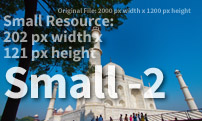
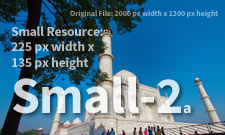
adjusting for new 225px resource

diff --git a/test-pages/chrome-2test.html b/test-pages/chrome-2test.html
@@ -73,7 +73,7 @@
                 <h2>Small Presentation</h2>
 
                 <div class="col-lg-3 col-md-4 col-sm-5 col-xs-6 no-pad-left">
-                    <img src="../images/2-SmallResource-202x121.jpg" srcset="../images/2-MediumResource-420x252.jpg 420w, ../images/2-SmallResource-202x121.jpg 202w" sizes="(min-width: 768px) 202px, (min-width: 463px) and (max-width: 767px) 420px, 202px">
+                    <img src="../images/2-SmallResource-202x121.jpg" srcset="../images/2-MediumResource-420x252.jpg 420w, ../images/2-SmallResource-202x121.jpg 225w" sizes="(min-width: 768px) 225px, (min-width: 463px) and (max-width: 767px) 420px, 225px">
                 </div>
 
                 <p>Lorem ipsum dolor sit amet, cum iriure invidunt et, quo at autem dicam instructior. Id has etiam mnesarchum. Omnes tractatos inciderint nam ad. Homero dicunt pro ne, ut labore volumus definiebas sit. Ex quo nulla sententiae comprehensam. Alii molestie reprimique sit in, natum mediocritatem ad mea. Lorem ipsum dolor sit amet, cum iriure invidunt et, quo at autem dicam instructior. Id has etiam mnesarchum. Omnes tractatos inciderint nam ad. Homero dicunt pro ne, ut labore volumus definiebas sit. Ex quo nulla sententiae comprehensam. Alii molestie reprimique sit in, natum mediocritatem ad mea.</p>
@@ -83,7 +83,7 @@
                 <h2>Medium Presentation</h2>
 
                 <div class="col-lg-6 col-md-7 col-xs-8 no-pad-left">
-                    <img src="../images/2-MediumResource-420x252.jpg" srcset="../images/2-LargeResource-638x383.jpg 638w, ../images/2-MediumResource-420x252.jpg 420w, ../images/2-SmallResource-202x121.jpg 202w" sizes="(min-width: 768px) 420px, (min-width: 683px) and (max-width: 767px) 683px, (min-width: 373px) 420px, 202px">
+                    <img src="../images/2-MediumResource-420x252.jpg" srcset="../images/2-LargeResource-638x383.jpg 638w, ../images/2-MediumResource-420x252.jpg 420w, ../images/2-SmallResource-202x121.jpg 225w" sizes="(min-width: 768px) 420px, (min-width: 683px) and (max-width: 767px) 683px, (min-width: 373px) 420px, 225px">
                 </div>
 
                 <p>Lorem ipsum dolor sit amet, cum iriure invidunt et, quo at autem dicam instructior. Id has etiam mnesarchum. Omnes tractatos inciderint nam ad. Homero dicunt pro ne, ut labore volumus definiebas sit. Ex quo nulla sententiae comprehensam. Alii molestie reprimique sit in, natum mediocritatem ad mea. Lorem ipsum dolor sit amet, cum iriure invidunt et, quo at autem dicam instructior. Id has etiam mnesarchum. Omnes tractatos inciderint nam ad. Homero dicunt pro ne, ut labore volumus definiebas sit. Ex quo nulla sententiae comprehensam. Alii molestie reprimique sit in, natum mediocritatem ad mea.</p>
@@ -93,7 +93,7 @@
                 <h2>Large Presentation</h2>
 
                 <div class="col-lg-9 col-md-9 col-xs-12 no-pad-left">
-                    <img src="../images/2-LargeResource-638x383.jpg" srcset="../images/2-FullWidthResource-870x522.jpg 870w, ../images/2-LargeResource-638x383.jpg 638w, ../images/2-MediumResource-420x252.jpg 420w, ../images/2-SmallResource-202x121.jpg 202w" sizes="(min-width: 768px) 638px, (min-width: 683px) and (max-width: 767px) 870px, (min-width: 483px) and (max-width: 682px) 638px, 420px">
+                    <img src="../images/2-LargeResource-638x383.jpg" srcset="../images/2-FullWidthResource-870x522.jpg 870w, ../images/2-LargeResource-638x383.jpg 638w, ../images/2-MediumResource-420x252.jpg 420w, ../images/2-SmallResource-202x121.jpg 225w" sizes="(min-width: 768px) 638px, (min-width: 683px) and (max-width: 767px) 870px, (min-width: 483px) and (max-width: 682px) 638px, 420px">
                 </div>
 
                 <p>Lorem ipsum dolor sit amet, cum iriure invidunt et, quo at autem dicam instructior. Id has etiam mnesarchum. Omnes tractatos inciderint nam ad. Homero dicunt pro ne, ut labore volumus definiebas sit. Ex quo nulla sententiae comprehensam. Alii molestie reprimique sit in, natum mediocritatem ad mea. Lorem ipsum dolor sit amet, cum iriure invidunt et, quo at autem dicam instructior. Id has etiam mnesarchum. Omnes tractatos inciderint nam ad. Homero dicunt pro ne, ut labore volumus definiebas sit. Ex quo nulla sententiae comprehensam. Alii molestie reprimique sit in, natum mediocritatem ad mea.</p>
@@ -103,7 +103,7 @@
                 <h2>Full-width Presentation</h2>
 
                 <div class="col-xs-12 no-pad-left no-pad-right">
-                    <img src="../images/2-FullWidthResource-870x522.jpg" srcset="../images/2-FullWidthResource-870x522.jpg 870w, ../images/2-LargeResource-638x383.jpg 638w, ../images/2-MediumResource-420x252.jpg 420w, ../images/2-SmallResource-202x121.jpg 202w" sizes="(min-width: 992px) 870px, (min-width: 768px) and (max-width: 991px) 638px, (min-width: 686px) and (max-width: 767px) 870px, (min-width: 468px) 638px, 420px">
+                    <img src="../images/2-FullWidthResource-870x522.jpg" srcset="../images/2-FullWidthResource-870x522.jpg 870w, ../images/2-LargeResource-638x383.jpg 638w, ../images/2-MediumResource-420x252.jpg 420w, ../images/2-SmallResource-202x121.jpg 225w" sizes="(min-width: 992px) 870px, (min-width: 768px) and (max-width: 991px) 638px, (min-width: 686px) and (max-width: 767px) 870px, (min-width: 468px) 638px, 420px">
                 </div>
 
                 <p>Lorem ipsum dolor sit amet, cum iriure invidunt et, quo at autem dicam instructior. Id has etiam mnesarchum. Omnes tractatos inciderint nam ad. Homero dicunt pro ne, ut labore volumus definiebas sit. Ex quo nulla sententiae comprehensam. Alii molestie reprimique sit in, natum mediocritatem ad mea. Lorem ipsum dolor sit amet, cum iriure invidunt et, quo at autem dicam instructior. Id has etiam mnesarchum. Omnes tractatos inciderint nam ad. Homero dicunt pro ne, ut labore volumus definiebas sit. Ex quo nulla sententiae comprehensam. Alii molestie reprimique sit in, natum mediocritatem ad mea.</p>

diff --git a/test-pages/firefox-2test.html b/test-pages/firefox-2test.html
@@ -74,7 +74,7 @@
                 <h2>Small Presentation</h2>
 
                 <div class="col-lg-3 col-md-4 col-sm-5 col-xs-6 no-pad-left">
-                    <img src="../images/2-SmallResource-202x121.jpg" srcset="../images/2-MediumResource-420x252.jpg 420w, ../images/2-SmallResource-202x121.jpg 202w" sizes="(min-width: 768px) 202px, (min-width: 463px) and (max-width: 767px) 420px, 202px">
+                    <img src="../images/2-SmallResource-202x121.jpg" srcset="../images/2-MediumResource-420x252.jpg 420w, ../images/2-SmallResource-202x121.jpg 225w" sizes="(min-width: 768px) 225px, (min-width: 463px) and (max-width: 767px) 420px, 225px">
                 </div>
 
                 <p>Lorem ipsum dolor sit amet, cum iriure invidunt et, quo at autem dicam instructior. Id has etiam mnesarchum. Omnes tractatos inciderint nam ad. Homero dicunt pro ne, ut labore volumus definiebas sit. Ex quo nulla sententiae comprehensam. Alii molestie reprimique sit in, natum mediocritatem ad mea. Lorem ipsum dolor sit amet, cum iriure invidunt et, quo at autem dicam instructior. Id has etiam mnesarchum. Omnes tractatos inciderint nam ad. Homero dicunt pro ne, ut labore volumus definiebas sit. Ex quo nulla sententiae comprehensam. Alii molestie reprimique sit in, natum mediocritatem ad mea.</p>
@@ -84,7 +84,7 @@
                 <h2>Medium Presentation</h2>
 
                 <div class="col-lg-6 col-md-7 col-xs-8 no-pad-left">
-                    <img src="../images/2-MediumResource-420x252.jpg" srcset="../images/2-LargeResource-638x383.jpg 638w, ../images/2-MediumResource-420x252.jpg 420w, ../images/2-SmallResource-202x121.jpg 202w" sizes="(min-width: 768px) 420px, (min-width: 683px) and (max-width: 767px) 683px, (min-width: 373px) 420px, 202px">
+                    <img src="../images/2-MediumResource-420x252.jpg" srcset="../images/2-LargeResource-638x383.jpg 638w, ../images/2-MediumResource-420x252.jpg 420w, ../images/2-SmallResource-202x121.jpg 225w" sizes="(min-width: 768px) 420px, (min-width: 683px) and (max-width: 767px) 683px, (min-width: 373px) 420px, 225px">
                 </div>
 
                 <p>Lorem ipsum dolor sit amet, cum iriure invidunt et, quo at autem dicam instructior. Id has etiam mnesarchum. Omnes tractatos inciderint nam ad. Homero dicunt pro ne, ut labore volumus definiebas sit. Ex quo nulla sententiae comprehensam. Alii molestie reprimique sit in, natum mediocritatem ad mea. Lorem ipsum dolor sit amet, cum iriure invidunt et, quo at autem dicam instructior. Id has etiam mnesarchum. Omnes tractatos inciderint nam ad. Homero dicunt pro ne, ut labore volumus definiebas sit. Ex quo nulla sententiae comprehensam. Alii molestie reprimique sit in, natum mediocritatem ad mea.</p>
@@ -94,7 +94,7 @@
                 <h2>Large Presentation</h2>
 
                 <div class="col-lg-9 col-md-9 col-xs-12 no-pad-left">
-                    <img src="../images/2-LargeResource-638x383.jpg" srcset="../images/2-FullWidthResource-870x522.jpg 870w, ../images/2-LargeResource-638x383.jpg 638w, ../images/2-MediumResource-420x252.jpg 420w, ../images/2-SmallResource-202x121.jpg 202w" sizes="(min-width: 768px) 638px, (min-width: 683px) and (max-width: 767px) 870px, (min-width: 483px) and (max-width: 682px) 638px, 420px">
+                    <img src="../images/2-LargeResource-638x383.jpg" srcset="../images/2-FullWidthResource-870x522.jpg 870w, ../images/2-LargeResource-638x383.jpg 638w, ../images/2-MediumResource-420x252.jpg 420w, ../images/2-SmallResource-202x121.jpg 225w" sizes="(min-width: 768px) 638px, (min-width: 683px) and (max-width: 767px) 870px, (min-width: 483px) and (max-width: 682px) 638px, 420px">
                 </div>
 
                 <p>Lorem ipsum dolor sit amet, cum iriure invidunt et, quo at autem dicam instructior. Id has etiam mnesarchum. Omnes tractatos inciderint nam ad. Homero dicunt pro ne, ut labore volumus definiebas sit. Ex quo nulla sententiae comprehensam. Alii molestie reprimique sit in, natum mediocritatem ad mea. Lorem ipsum dolor sit amet, cum iriure invidunt et, quo at autem dicam instructior. Id has etiam mnesarchum. Omnes tractatos inciderint nam ad. Homero dicunt pro ne, ut labore volumus definiebas sit. Ex quo nulla sententiae comprehensam. Alii molestie reprimique sit in, natum mediocritatem ad mea.</p>
@@ -104,7 +104,7 @@
                 <h2>Full-width Presentation</h2>
 
                 <div class="col-xs-12 no-pad-left no-pad-right">
-                    <img src="../images/2-FullWidthResource-870x522.jpg" srcset="../images/2-FullWidthResource-870x522.jpg 870w, ../images/2-LargeResource-638x383.jpg 638w, ../images/2-MediumResource-420x252.jpg 420w, ../images/2-SmallResource-202x121.jpg 202w" sizes="(min-width: 992px) 870px, (min-width: 768px) and (max-width: 991px) 638px, (min-width: 686px) and (max-width: 767px) 870px, (min-width: 468px) 638px, 420px">
+                    <img src="../images/2-FullWidthResource-870x522.jpg" srcset="../images/2-FullWidthResource-870x522.jpg 870w, ../images/2-LargeResource-638x383.jpg 638w, ../images/2-MediumResource-420x252.jpg 420w, ../images/2-SmallResource-202x121.jpg 225w" sizes="(min-width: 992px) 870px, (min-width: 768px) and (max-width: 991px) 638px, (min-width: 686px) and (max-width: 767px) 870px, (min-width: 468px) 638px, 420px">
                 </div>
 
                 <p>Lorem ipsum dolor sit amet, cum iriure invidunt et, quo at autem dicam instructior. Id has etiam mnesarchum. Omnes tractatos inciderint nam ad. Homero dicunt pro ne, ut labore volumus definiebas sit. Ex quo nulla sententiae comprehensam. Alii molestie reprimique sit in, natum mediocritatem ad mea. Lorem ipsum dolor sit amet, cum iriure invidunt et, quo at autem dicam instructior. Id has etiam mnesarchum. Omnes tractatos inciderint nam ad. Homero dicunt pro ne, ut labore volumus definiebas sit. Ex quo nulla sententiae comprehensam. Alii molestie reprimique sit in, natum mediocritatem ad mea.</p>

diff --git a/test-pages/firefox-test.html b/test-pages/firefox-test.html
@@ -72,7 +72,7 @@
         <h2>Small Presentation</h2>
 
                 <div class="col-lg-3 col-md-4 col-sm-5 col-xs-6 no-pad-left">
-                    <img src="../images/2-SmallResource-202x121.jpg" srcset="../images/2-MediumResource-420x252.jpg 420w, ../images/2-SmallResource-202x121.jpg 202w" sizes="(min-width: 768px) 202px, (min-width: 463px) and (max-width: 767px) 420px, 202px">
+                    <img src="../images/2-SmallResource-202x121.jpg" srcset="../images/2-MediumResource-420x252.jpg 420w, ../images/2-SmallResource-202x121.jpg 225w" sizes="(min-width: 768px) 225px, (min-width: 463px) and (max-width: 767px) 420px, 225px">
                 </div>
 
                 <p>Lorem ipsum dolor sit amet, cum iriure invidunt et, quo at autem dicam instructior. Id has etiam mnesarchum. Omnes tractatos inciderint nam ad. Homero dicunt pro ne, ut labore volumus definiebas sit. Ex quo nulla sententiae comprehensam. Alii molestie reprimique sit in, natum mediocritatem ad mea. Lorem ipsum dolor sit amet, cum iriure invidunt et, quo at autem dicam instructior. Id has etiam mnesarchum. Omnes tractatos inciderint nam ad. Homero dicunt pro ne, ut labore volumus definiebas sit. Ex quo nulla sententiae comprehensam. Alii molestie reprimique sit in, natum mediocritatem ad mea.</p>
@@ -82,7 +82,7 @@
                 <h2>Medium Presentation</h2>
 
                 <div class="col-lg-6 col-md-7 col-xs-8 no-pad-left">
-                    <img src="../images/2-MediumResource-420x252.jpg" srcset="../images/2-LargeResource-638x383.jpg 638w, ../images/2-MediumResource-420x252.jpg 420w, ../images/2-SmallResource-202x121.jpg 202w" sizes="(min-width: 768px) 420px, (min-width: 683px) and (max-width: 767px) 683px, (min-width: 373px) 420px, 202px">
+                    <img src="../images/2-MediumResource-420x252.jpg" srcset="../images/2-LargeResource-638x383.jpg 638w, ../images/2-MediumResource-420x252.jpg 420w, ../images/2-SmallResource-202x121.jpg 225w" sizes="(min-width: 768px) 420px, (min-width: 683px) and (max-width: 767px) 683px, (min-width: 373px) 420px, 225px">
                 </div>
 
                 <p>Lorem ipsum dolor sit amet, cum iriure invidunt et, quo at autem dicam instructior. Id has etiam mnesarchum. Omnes tractatos inciderint nam ad. Homero dicunt pro ne, ut labore volumus definiebas sit. Ex quo nulla sententiae comprehensam. Alii molestie reprimique sit in, natum mediocritatem ad mea. Lorem ipsum dolor sit amet, cum iriure invidunt et, quo at autem dicam instructior. Id has etiam mnesarchum. Omnes tractatos inciderint nam ad. Homero dicunt pro ne, ut labore volumus definiebas sit. Ex quo nulla sententiae comprehensam. Alii molestie reprimique sit in, natum mediocritatem ad mea.</p>
@@ -92,7 +92,7 @@
                 <h2>Large Presentation</h2>
 
                 <div class="col-lg-9 col-md-9 col-xs-12 no-pad-left">
-                    <img src="../images/2-LargeResource-638x383.jpg" srcset="../images/2-FullWidthResource-870x522.jpg 870w, ../images/2-LargeResource-638x383.jpg 638w, ../images/2-MediumResource-420x252.jpg 420w, ../images/2-SmallResource-202x121.jpg 202w" sizes="(min-width: 768px) 638px, (min-width: 683px) and (max-width: 767px) 870px, (min-width: 483px) and (max-width: 682px) 638px, 420px">
+                    <img src="../images/2-LargeResource-638x383.jpg" srcset="../images/2-FullWidthResource-870x522.jpg 870w, ../images/2-LargeResource-638x383.jpg 638w, ../images/2-MediumResource-420x252.jpg 420w, ../images/2-SmallResource-202x121.jpg 225w" sizes="(min-width: 768px) 638px, (min-width: 683px) and (max-width: 767px) 870px, (min-width: 483px) and (max-width: 682px) 638px, 420px">
                 </div>
 
                 <p>Lorem ipsum dolor sit amet, cum iriure invidunt et, quo at autem dicam instructior. Id has etiam mnesarchum. Omnes tractatos inciderint nam ad. Homero dicunt pro ne, ut labore volumus definiebas sit. Ex quo nulla sententiae comprehensam. Alii molestie reprimique sit in, natum mediocritatem ad mea. Lorem ipsum dolor sit amet, cum iriure invidunt et, quo at autem dicam instructior. Id has etiam mnesarchum. Omnes tractatos inciderint nam ad. Homero dicunt pro ne, ut labore volumus definiebas sit. Ex quo nulla sententiae comprehensam. Alii molestie reprimique sit in, natum mediocritatem ad mea.</p>
@@ -102,7 +102,7 @@
                 <h2>Full-width Presentation</h2>
 
                 <div class="col-xs-12 no-pad-left no-pad-right">
-                    <img src="../images/2-FullWidthResource-870x522.jpg" srcset="../images/2-FullWidthResource-870x522.jpg 870w, ../images/2-LargeResource-638x383.jpg 638w, ../images/2-MediumResource-420x252.jpg 420w, ../images/2-SmallResource-202x121.jpg 202w" sizes="(min-width: 992px) 870px, (min-width: 768px) and (max-width: 991px) 638px, (min-width: 686px) and (max-width: 767px) 870px, (min-width: 468px) 638px, 420px">
+                    <img src="../images/2-FullWidthResource-870x522.jpg" srcset="../images/2-FullWidthResource-870x522.jpg 870w, ../images/2-LargeResource-638x383.jpg 638w, ../images/2-MediumResource-420x252.jpg 420w, ../images/2-SmallResource-202x121.jpg 225w" sizes="(min-width: 992px) 870px, (min-width: 768px) and (max-width: 991px) 638px, (min-width: 686px) and (max-width: 767px) 870px, (min-width: 468px) 638px, 420px">
                 </div>
 
                 <p>Lorem ipsum dolor sit amet, cum iriure invidunt et, quo at autem dicam instructior. Id has etiam mnesarchum. Omnes tractatos inciderint nam ad. Homero dicunt pro ne, ut labore volumus definiebas sit. Ex quo nulla sententiae comprehensam. Alii molestie reprimique sit in, natum mediocritatem ad mea. Lorem ipsum dolor sit amet, cum iriure invidunt et, quo at autem dicam instructior. Id has etiam mnesarchum. Omnes tractatos inciderint nam ad. Homero dicunt pro ne, ut labore volumus definiebas sit. Ex quo nulla sententiae comprehensam. Alii molestie reprimique sit in, natum mediocritatem ad mea.</p>

diff --git a/test-pages/chrome-test.html b/test-pages/chrome-test.html
@@ -72,7 +72,7 @@
         <h2>Small Presentation</h2>
 
         <div class="col-lg-3 col-md-4 col-sm-5 col-xs-6 no-pad-left">
-            <img src="../images/2-SmallResource-202x121.jpg" srcset="../images/2-MediumResource-420x252.jpg 420w, ../images/2-SmallResource-202x121.jpg 202w" sizes="(min-width: 768px) 202px, (min-width: 463px) and (max-width: 767px) 420px, 202px">
+            <img src="../images/2-SmallResource-202x121.jpg" srcset="../images/2-MediumResource-420x252.jpg 420w, ../images/2-SmallResource-202x121.jpg 225w" sizes="(min-width: 768px) 225px, (min-width: 463px) and (max-width: 767px) 420px, 225px">
         </div>
 
         <p>Lorem ipsum dolor sit amet, cum iriure invidunt et, quo at autem dicam instructior. Id has etiam mnesarchum. Omnes tractatos inciderint nam ad. Homero dicunt pro ne, ut labore volumus definiebas sit. Ex quo nulla sententiae comprehensam. Alii molestie reprimique sit in, natum mediocritatem ad mea. Lorem ipsum dolor sit amet, cum iriure invidunt et, quo at autem dicam instructior. Id has etiam mnesarchum. Omnes tractatos inciderint nam ad. Homero dicunt pro ne, ut labore volumus definiebas sit. Ex quo nulla sententiae comprehensam. Alii molestie reprimique sit in, natum mediocritatem ad mea.</p>
@@ -82,7 +82,7 @@
         <h2>Medium Presentation</h2>
 
         <div class="col-lg-6 col-md-7 col-xs-8 no-pad-left">
-            <img src="../images/2-MediumResource-420x252.jpg" srcset="../images/2-LargeResource-638x383.jpg 638w, ../images/2-MediumResource-420x252.jpg 420w, ../images/2-SmallResource-202x121.jpg 202w" sizes="(min-width: 768px) 420px, (min-width: 683px) and (max-width: 767px) 683px, (min-width: 373px) 420px, 202px">
+            <img src="../images/2-MediumResource-420x252.jpg" srcset="../images/2-LargeResource-638x383.jpg 638w, ../images/2-MediumResource-420x252.jpg 420w, ../images/2-SmallResource-202x121.jpg 225w" sizes="(min-width: 768px) 420px, (min-width: 683px) and (max-width: 767px) 683px, (min-width: 373px) 420px, 225px">
         </div>
 
         <p>Lorem ipsum dolor sit amet, cum iriure invidunt et, quo at autem dicam instructior. Id has etiam mnesarchum. Omnes tractatos inciderint nam ad. Homero dicunt pro ne, ut labore volumus definiebas sit. Ex quo nulla sententiae comprehensam. Alii molestie reprimique sit in, natum mediocritatem ad mea. Lorem ipsum dolor sit amet, cum iriure invidunt et, quo at autem dicam instructior. Id has etiam mnesarchum. Omnes tractatos inciderint nam ad. Homero dicunt pro ne, ut labore volumus definiebas sit. Ex quo nulla sententiae comprehensam. Alii molestie reprimique sit in, natum mediocritatem ad mea.</p>
@@ -92,7 +92,7 @@
         <h2>Large Presentation</h2>
 
         <div class="col-lg-9 col-md-9 col-xs-12 no-pad-left">
-            <img src="../images/2-LargeResource-638x383.jpg" srcset="../images/2-FullWidthResource-870x522.jpg 870w, ../images/2-LargeResource-638x383.jpg 638w, ../images/2-MediumResource-420x252.jpg 420w, ../images/2-SmallResource-202x121.jpg 202w" sizes="(min-width: 768px) 638px, (min-width: 683px) and (max-width: 767px) 870px, (min-width: 483px) and (max-width: 682px) 638px, 420px">
+            <img src="../images/2-LargeResource-638x383.jpg" srcset="../images/2-FullWidthResource-870x522.jpg 870w, ../images/2-LargeResource-638x383.jpg 638w, ../images/2-MediumResource-420x252.jpg 420w, ../images/2-SmallResource-202x121.jpg 225w" sizes="(min-width: 768px) 638px, (min-width: 683px) and (max-width: 767px) 870px, (min-width: 483px) and (max-width: 682px) 638px, 420px">
         </div>
 
         <p>Lorem ipsum dolor sit amet, cum iriure invidunt et, quo at autem dicam instructior. Id has etiam mnesarchum. Omnes tractatos inciderint nam ad. Homero dicunt pro ne, ut labore volumus definiebas sit. Ex quo nulla sententiae comprehensam. Alii molestie reprimique sit in, natum mediocritatem ad mea. Lorem ipsum dolor sit amet, cum iriure invidunt et, quo at autem dicam instructior. Id has etiam mnesarchum. Omnes tractatos inciderint nam ad. Homero dicunt pro ne, ut labore volumus definiebas sit. Ex quo nulla sententiae comprehensam. Alii molestie reprimique sit in, natum mediocritatem ad mea.</p>
@@ -102,7 +102,7 @@
         <h2>Full-width Presentation</h2>
 
         <div class="col-xs-12 no-pad-left no-pad-right">
-            <img src="../images/2-FullWidthResource-870x522.jpg" srcset="../images/2-FullWidthResource-870x522.jpg 870w, ../images/2-LargeResource-638x383.jpg 638w, ../images/2-MediumResource-420x252.jpg 420w, ../images/2-SmallResource-202x121.jpg 202w" sizes="(min-width: 992px) 870px, (min-width: 768px) and (max-width: 991px) 638px, (min-width: 686px) and (max-width: 767px) 870px, (min-width: 468px) 638px, 420px">
+            <img src="../images/2-FullWidthResource-870x522.jpg" srcset="../images/2-FullWidthResource-870x522.jpg 870w, ../images/2-LargeResource-638x383.jpg 638w, ../images/2-MediumResource-420x252.jpg 420w, ../images/2-SmallResource-202x121.jpg 225w" sizes="(min-width: 992px) 870px, (min-width: 768px) and (max-width: 991px) 638px, (min-width: 686px) and (max-width: 767px) 870px, (min-width: 468px) 638px, 420px">
         </div>
 
         <p>Lorem ipsum dolor sit amet, cum iriure invidunt et, quo at autem dicam instructior. Id has etiam mnesarchum. Omnes tractatos inciderint nam ad. Homero dicunt pro ne, ut labore volumus definiebas sit. Ex quo nulla sententiae comprehensam. Alii molestie reprimique sit in, natum mediocritatem ad mea. Lorem ipsum dolor sit amet, cum iriure invidunt et, quo at autem dicam instructior. Id has etiam mnesarchum. Omnes tractatos inciderint nam ad. Homero dicunt pro ne, ut labore volumus definiebas sit. Ex quo nulla sententiae comprehensam. Alii molestie reprimique sit in, natum mediocritatem ad mea.</p>
